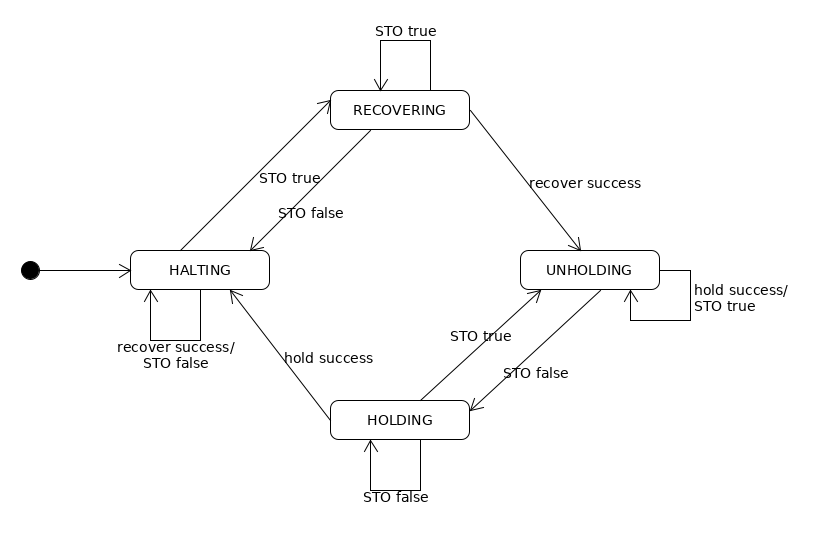
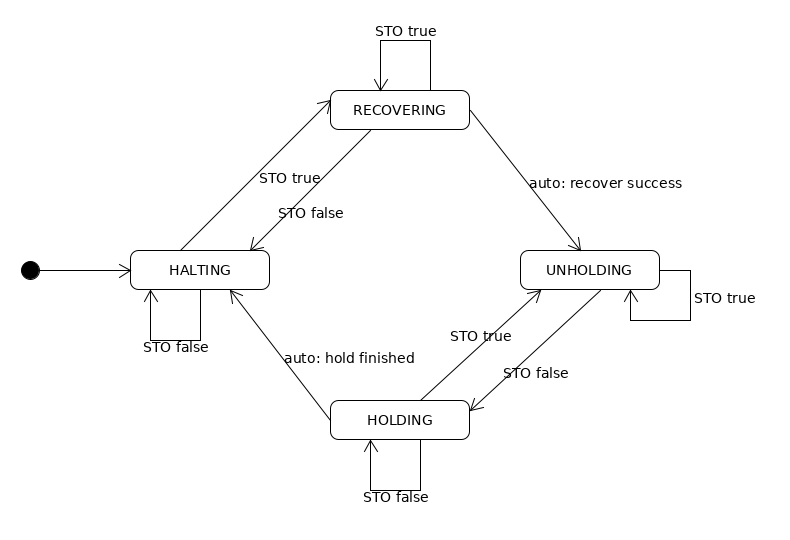
Refactor STOExecutor. passes unit test.

diff --git a/prbt_hardware_support/include/prbt_hardware_support/sto_executor.h b/prbt_hardware_support/include/prbt_hardware_support/sto_executor.h
@@ -22,6 +22,8 @@
 #include <mutex>
 #include <thread>
 
+#include <boost/optional.hpp>
+
 #include <ros/time.h>
 #include <ros/service_client.h>
 #include <std_srvs/Trigger.h>
@@ -81,10 +83,10 @@ public:
 private:
   enum Action
   {
-    HOLDING,
-    UNHOLDING,
     HALTING,
-    RECOVERING
+    RECOVERING,
+    UNHOLDING,
+    HOLDING
   };
 
   /**
@@ -97,7 +99,7 @@ private:
   /**
    * @brief Perform an automatic update of the next action depending on \p finished_action
    */
-  void autoUpdate(Action finished_action);
+  void autoUpdate(Action finished_action, bool exec_result);
 
   /**
    * @brief Specifies the time between holding the controller and disabling the driver. This allows the controller
@@ -135,10 +137,7 @@ typedef STOExecutorTemplated<> STOExecutor;
 
 template <class T>
 STOExecutorTemplated<T>::STOExecutorTemplated(std::function<T(std::string)> create_service_client)
-    : hold_srv_client_(create_service_client(HOLD_SERVICE))
-    , unhold_srv_client_(create_service_client(UNHOLD_SERVICE))
-    , recover_srv_client_(create_service_client(RECOVER_SERVICE))
-    , halt_srv_client_(create_service_client(HALT_SERVICE))
+    : hold_srv_client_(create_service_client(HOLD_SERVICE)), unhold_srv_client_(create_service_client(UNHOLD_SERVICE)), recover_srv_client_(create_service_client(RECOVER_SERVICE)), halt_srv_client_(create_service_client(HALT_SERVICE))
 {
 }
 
@@ -148,23 +147,23 @@ void STOExecutorTemplated<T>::run()
   Action current_action{Action::HALTING};
   bool execute_action{false};
 
-  // ROS_ERROR_STREAM("terminate_: " << terminate_);
-
   ros::Rate rate(10);
   while (!terminate_)
   {
-    ROS_ERROR_STREAM("inside while loop");
     {
       std::lock_guard<std::mutex> lock(action_mutex_);
-      execute_action = (current_action != next_action_);
-      current_action = next_action_;
-      // ROS_ERROR_STREAM("current_action: " << current_action);
-      // ROS_ERROR_STREAM("next_action_: " << next_action_);
+      execute_action = execute_action || (next_action_ != current_action);
+      if (execute_action)
+      {
+        current_action = next_action_;
+      }
     }
 
-    if (execute_action && execute(current_action))
+    if (execute_action)
     {
-      autoUpdate(current_action);
+      bool exec_result = execute(current_action);
+      execute_action = !exec_result;
+      autoUpdate(current_action, exec_result);
     }
 
     rate.sleep();
@@ -223,17 +222,19 @@ void STOExecutorTemplated<T>::terminate()
 }
 
 template <class T>
-void STOExecutorTemplated<T>::autoUpdate(Action finished_action)
+void STOExecutorTemplated<T>::autoUpdate(Action finished_action, bool exec_result)
 {
   std::lock_guard<std::mutex> lock(action_mutex_);
 
-  // only if there was no sto update in between
-  if (finished_action == next_action_)
+  if (next_action_ == finished_action)
   {
     switch (finished_action)
     {
     case Action::RECOVERING:
-      next_action_ = Action::UNHOLDING;
+      if (exec_result)
+      {
+        next_action_ = Action::UNHOLDING;
+      }
       break;
     case Action::HOLDING:
       next_action_ = Action::HALTING;
@@ -247,7 +248,6 @@ void STOExecutorTemplated<T>::autoUpdate(Action finished_action)
 template <class T>
 bool STOExecutorTemplated<T>::execute(Action action)
 {
-  // ROS_ERROR_STREAM("execute()");
   bool success{false};
 
   switch (action)

diff --git a/pilz_testutils/src/async_test.cpp b/pilz_testutils/src/async_test.cpp
@@ -37,9 +37,7 @@ void AsyncTest::barricade(std::initializer_list<std::string> clear_events)
 
   while(!clear_events_.empty())
   {
-    std::cout << "START WAITING " << *clear_events.begin() << std::endl;
     cv_.wait(lk);
-    std::cout << "NOTIFIED " << *clear_events.begin() << std::endl;
   }
 }
 
@@ -48,14 +46,12 @@ void AsyncTest::triggerClearEvent(std::string event)
   std::lock_guard<std::mutex> lk(m_);
   if (clear_events_.empty())
   {
-    std::cout << "INSERTING " << event << std::endl;
     waitlist_.insert(event);
   }
   else if (clear_events_.erase(event) < 1)
   {
     ROS_WARN_STREAM("Triggered event " << event << " despite not waiting for it.");
   }
-  std::cout << "NOTIFYING " << event << std::endl;
   cv_.notify_one();
 }
 
